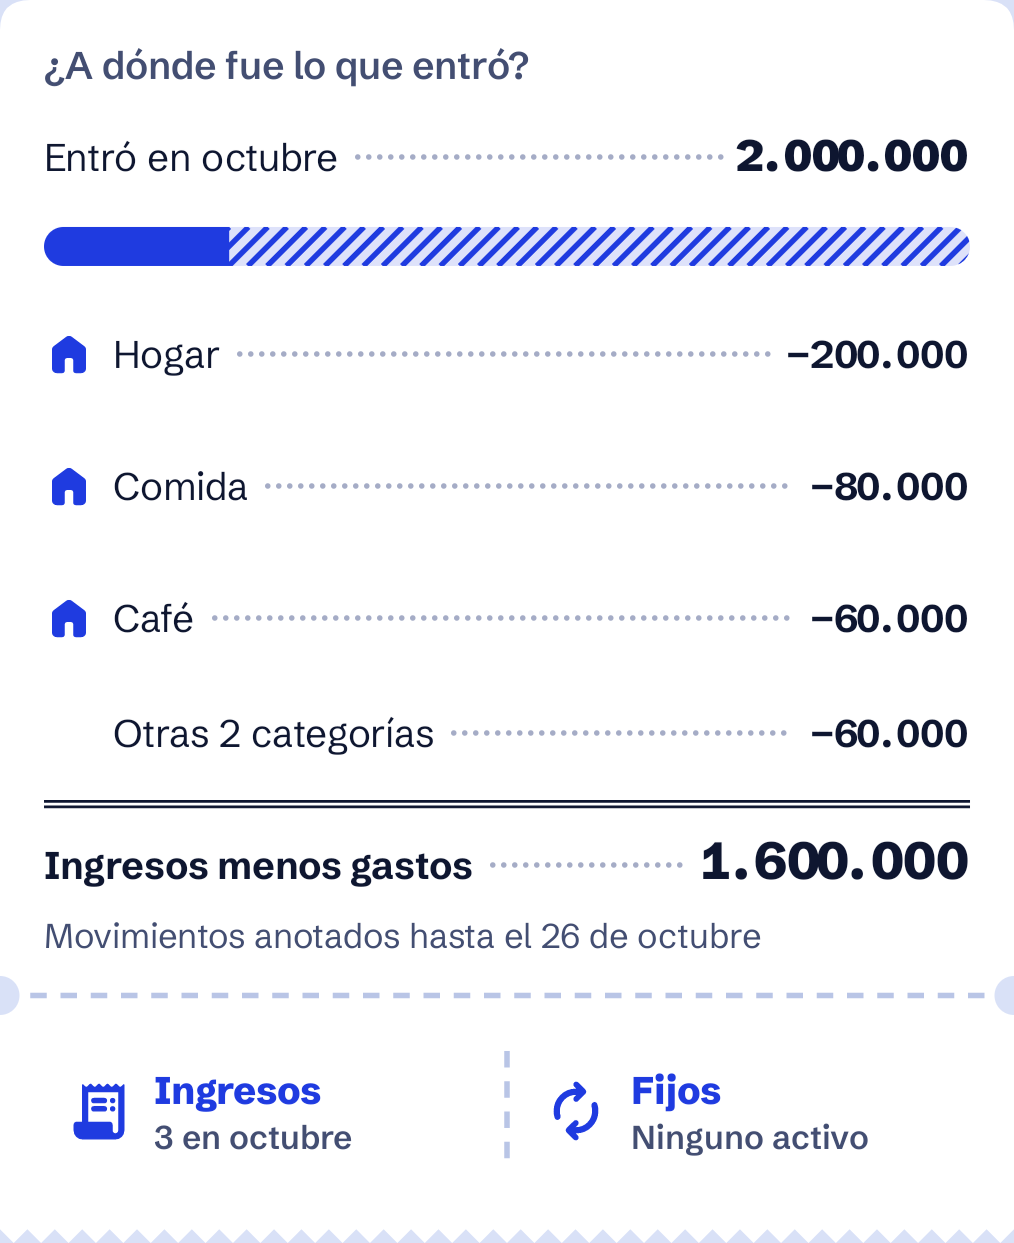
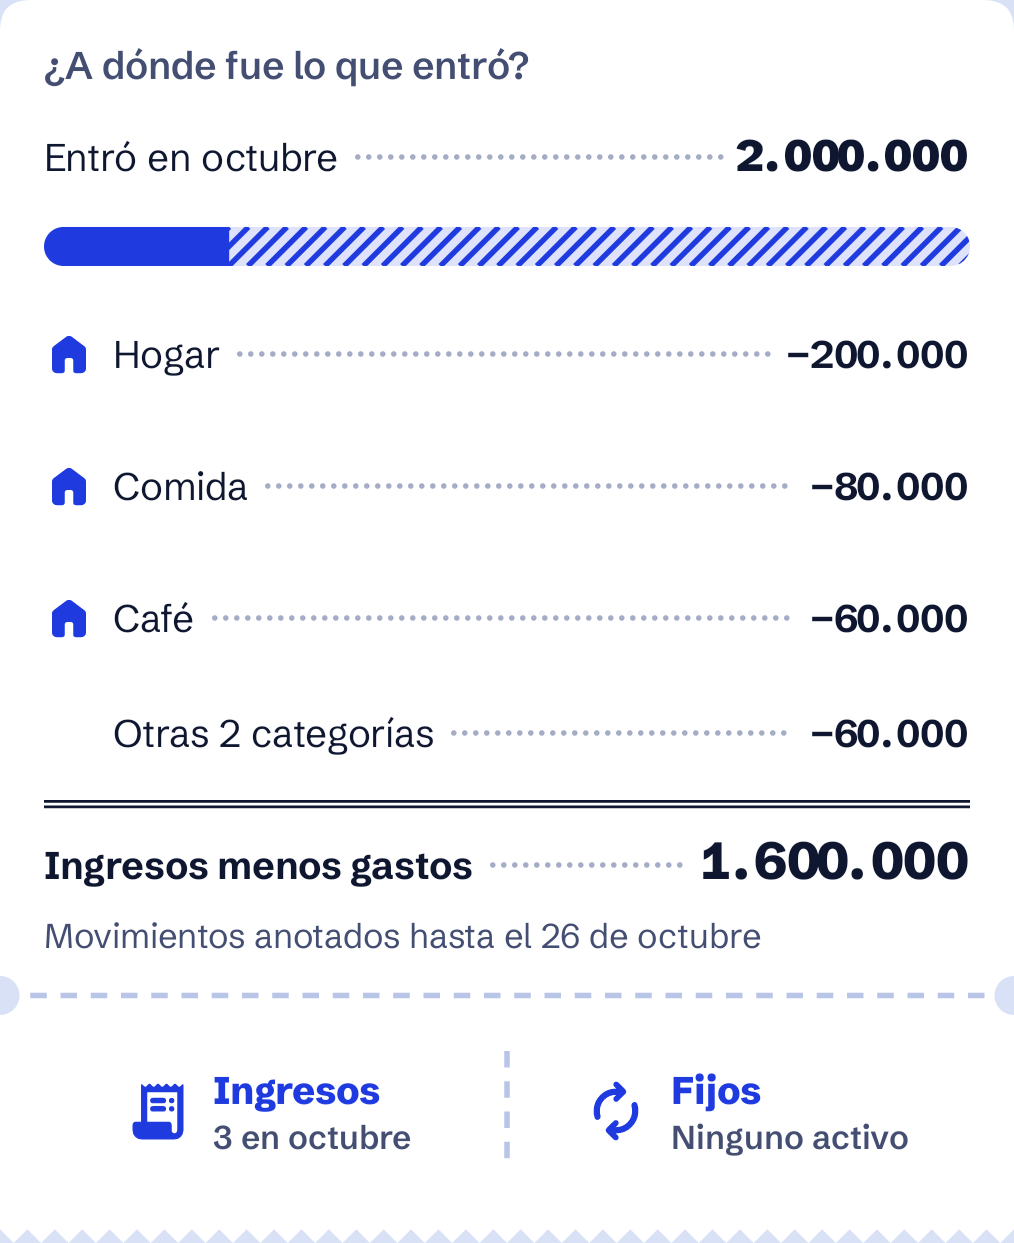
E22 - SELLO-123 | Centre the stub's halves

Changed region(s): [[0.0611, 0.856, 0.3974, 0.9477], [0.5503, 0.856, 0.8866, 0.9477]]

diff --git a/design-system/src/main/java/com/software/sello/designsystem/component/SlipStub.kt b/design-system/src/main/java/com/software/sello/designsystem/component/SlipStub.kt
@@ -23,6 +23,7 @@ import androidx.compose.ui.Modifier
 import androidx.compose.ui.draw.clip
 import androidx.compose.ui.geometry.Offset
 import androidx.compose.ui.graphics.PathEffect
+import androidx.compose.ui.platform.testTag
 import androidx.compose.ui.semantics.Role
 import androidx.compose.ui.semantics.clearAndSetSemantics
 import androidx.compose.ui.semantics.contentDescription
@@ -65,8 +66,8 @@ fun SlipStub(
 
 /**
  * One half of a [SlipStub]: an icon, a short [title] in the brand ink and, when known,
- * one [fact] under it. One button, said as [label] then the fact; [label] should contain
- * the [title] so a spoken command finds it.
+ * one [fact] under it, centred in the half. One button, said as [label] then the fact;
+ * [label] should contain the [title] so a spoken command finds it.
  */
 @Composable
 fun StubButton(
@@ -80,6 +81,7 @@ fun StubButton(
     val colors = SelloTheme.colors
     Row(
         verticalAlignment = Alignment.CenterVertically,
+        horizontalArrangement = Arrangement.Center,
         modifier = modifier
             .fillMaxWidth()
             .heightIn(min = 56.dp)
@@ -90,17 +92,25 @@ fun StubButton(
             }
             .padding(horizontal = 8.dp, vertical = 6.dp)
     ) {
-        Icon(
-            icon.painter(),
-            contentDescription = null,
-            tint = colors.brand,
-            modifier = Modifier.padding(end = 8.dp).size(24.dp)
-        )
-        Column(Modifier.clearAndSetSemantics {}) {
-            Text(title, fontWeight = FontWeight.W800, color = colors.brand)
-            if (fact != null) {
-                Text(fact, style = MaterialTheme.typography.labelSmall, color = colors.inkSoft)
+        Row(
+            verticalAlignment = Alignment.CenterVertically,
+            modifier = Modifier.testTag(STUB_CONTENT_TAG)
+        ) {
+            Icon(
+                icon.painter(),
+                contentDescription = null,
+                tint = colors.brand,
+                modifier = Modifier.padding(end = 8.dp).size(24.dp)
+            )
+            Column(Modifier.clearAndSetSemantics {}) {
+                Text(title, fontWeight = FontWeight.W800, color = colors.brand)
+                if (fact != null) {
+                    Text(fact, style = MaterialTheme.typography.labelSmall, color = colors.inkSoft)
+                }
             }
         }
     }
 }
+
+/** The icon and words of a [StubButton], for tests that check where they sit. */
+internal const val STUB_CONTENT_TAG = "stub.content"

diff --git a/design-system/src/androidTest/java/com/software/sello/designsystem/component/SlipStubTest.kt b/design-system/src/androidTest/java/com/software/sello/designsystem/component/SlipStubTest.kt
@@ -8,6 +8,8 @@ import androidx.compose.ui.semantics.SemanticsProperties
 import androidx.compose.ui.semantics.getOrNull
 import androidx.compose.ui.test.assertHasClickAction
 import androidx.compose.ui.test.getUnclippedBoundsInRoot
+import androidx.compose.ui.test.hasAnyAncestor
+import androidx.compose.ui.test.hasTestTag
 import androidx.compose.ui.test.junit4.createComposeRule
 import androidx.compose.ui.test.onNodeWithTag
 import androidx.compose.ui.test.performClick
@@ -82,6 +84,23 @@ class SlipStubTest {
             assertEquals(incomes.width.value, fixed.width.value, 1f)
             assertTrue(incomes.right <= fixed.left)
             assertTrue(incomes.height >= 48.dp && fixed.height >= 48.dp)
+        }
+    }
+
+    @Test
+    fun eachHalfCentresItsIconAndWordsInItsSpace() {
+        rule.inEveryScheme(content = { Stub() }) {
+            listOf("incomes", "fixed").forEach { tag ->
+                val half = rule.onNodeWithTag(tag).getUnclippedBoundsInRoot()
+                val content = rule.onNode(
+                    hasTestTag(STUB_CONTENT_TAG) and hasAnyAncestor(hasTestTag(tag)),
+                    useUnmergedTree = true
+                ).getUnclippedBoundsInRoot()
+                val left = content.left - half.left
+                val right = half.right - content.right
+                assertTrue("$tag: $left on the left, $right on the right", left > 8.dp)
+                assertEquals(left.value, right.value, 1f)
+            }
         }
     }
 }
